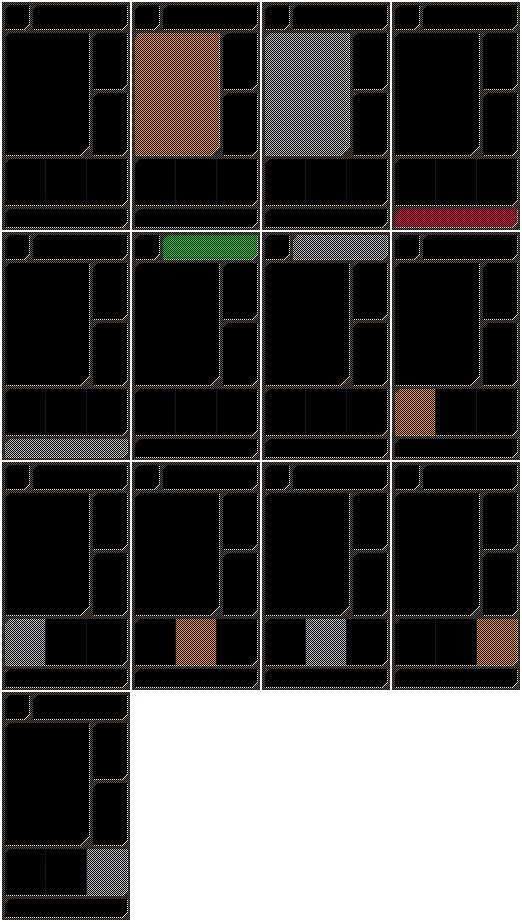
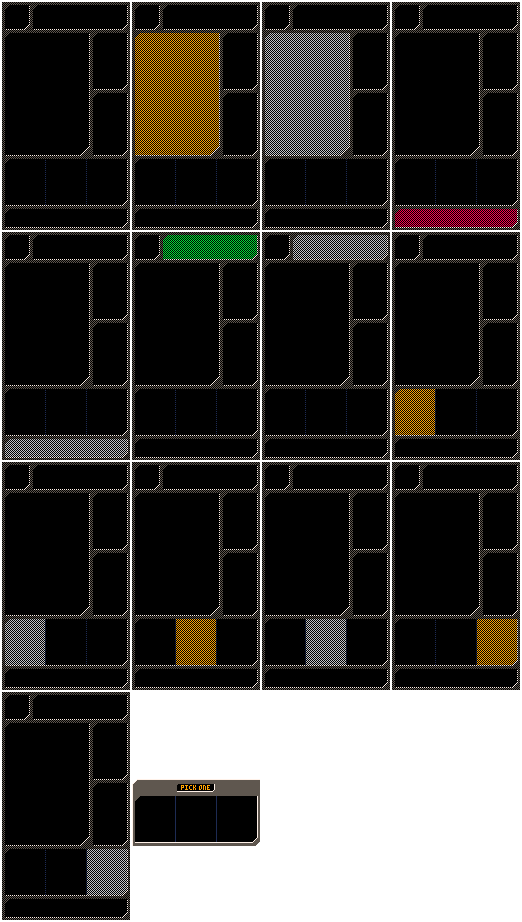
Add booster pack logic

Changed region(s): [[0.2452, 0.82, 0.5211, 0.9414]]

diff --git a/lib/src/game/engine/GameRulesEngine.cpp b/lib/src/game/engine/GameRulesEngine.cpp
@@ -7,6 +7,14 @@
 
 void GameRulesEngine::operator()(const CardTakenGameEvent& e)
 {
+    scene.stats.turnsTaken++;
+
+    if (scene.deck.front().special == CardSpecial::BoosterPack)
+    {
+        scene.boosterChoice = SceneBuilder::generateBooster();
+        return;
+    }
+
     if (scene.inventory[e.inventorySlotIdx].has_value())
     {
         const auto& inventoryCard = scene.inventory[e.inventorySlotIdx].value();
@@ -40,7 +48,6 @@ void GameRulesEngine::operator()(const CardTakenGameEvent& e)
     }
 
     popTopDeckCard();
-    scene.stats.turnsTaken++;
 }
 
 void GameRulesEngine::operator()(const CardSkipStartedGameEvent&)
@@ -81,8 +88,9 @@ void GameRulesEngine::operator()(const BeforeCardSkipGameEvent&)
 
 void GameRulesEngine::operator()(const InventoryCardTrashedGameEvent& e)
 {
-    audioEngine.playSound(SoundId::CardDestroy);
+    scene.deck.push_front(*scene.inventory[e.inventorySlotIdx]);
     scene.inventory[e.inventorySlotIdx].reset();
+    gameEventQueue.pushEvent<BeforeCardSkipGameEvent>();
 }
 
 void GameRulesEngine::operator()(const InventoryCardUsedForHealingGameEvent& e)
@@ -121,23 +129,14 @@ void GameRulesEngine::operator()(const InventoryCardUsedOnMainCardGameEvent& e)
         if (card.link == SPECIAL_CREST_DOOR
             && deckCard.image == CardImage::CrestDoorEmpty)
         {
-            scene.activeAnimation = std::make_unique<AnimationCardTransform>(
-                CardType::CrestDoorEmpty);
-
-            scene.deck.front() =
-                CardBuilder::createCard(CardType::CrestDoorWithOneCrest);
+            transformTopCard(
+                CardType::CrestDoorEmpty, CardType::CrestDoorWithOneCrest);
         }
         else
         {
             scene.activeAnimation =
                 std::make_unique<AnimationDoorOpen>(card.link);
         }
-    }
-    else if (deckCard.special & CardSpecial::Deposit)
-    {
-        scene.deck.push_front(*scene.inventory[e.inventorySlotIdx]);
-        scene.inventory[e.inventorySlotIdx].reset();
-        gameEventQueue.pushEvent<BeforeCardSkipGameEvent>();
     }
     else
     {
@@ -293,27 +292,46 @@ void GameRulesEngine::update(const dgm::Time& time)
     if (scene.activeAnimation) return;
 
     scene.usableInventorySlot = getUsableInventorySlot(scene.deck.front());
-    scene.canTakeCard = scene.deck.front().traits & CardTrait::Pickable
-                        && scene.usableInventorySlot;
+    scene.canTakeCard =
+        (scene.deck.front().traits & CardTrait::Pickable
+         && scene.usableInventorySlot)
+        || scene.deck.front().special & CardSpecial::BoosterPack;
     scene.canSafelySkipCard = !(scene.deck.front().traits & CardTrait::Enemy);
 
     if (scene.preventInteractions) return;
 
-    if (input.isTakeButtonPressed())
+    if (scene.boosterChoice)
     {
-        handleTake();
+        const auto clickPos = screenToWorld(input.getDragPosition());
+        for (auto&& [idx, body] :
+             std::ranges::views::enumerate(scene.choiceBodies))
+        {
+            if (dgm::Collision::basic(body, clickPos))
+            {
+                transformTopCard(
+                    CardType::Crate, scene.boosterChoice.value()[idx]);
+                scene.boosterChoice.reset();
+            }
+        }
     }
-    else if (input.isSkipButtonPressed())
+    else
     {
-        handleSkip();
-    }
-    else if (auto pos = input.getDragPosition(); pos != sf::Vector2f {})
-    {
-        handleDragStartedOrMoved(pos);
-    }
-    else if (scene.dragDrop.has_value())
-    {
-        handleDragEnded();
+        if (input.isTakeButtonPressed())
+        {
+            handleTake();
+        }
+        else if (input.isSkipButtonPressed())
+        {
+            handleSkip();
+        }
+        else if (auto pos = input.getDragPosition(); pos != sf::Vector2f {})
+        {
+            handleDragStartedOrMoved(pos);
+        }
+        else if (scene.dragDrop.has_value())
+        {
+            handleDragEnded();
+        }
     }
 }
 
@@ -499,8 +517,7 @@ bool GameRulesEngine::canCardInteractWithDeck(
     const auto deckTraits = deck.front().traits;
     return deckTraits & CardTrait::Enemy && a.traits & CardTrait::Weapon
            || deckTraits & CardTrait::KeyTarget && a.traits & CardTrait::KeyItem
-                  && deck.front().link == a.link
-           || deck.front().special & CardSpecial::Deposit;
+                  && deck.front().link == a.link;
 }
 
 sf::Vector2f GameRulesEngine::screenToWorld(const sf::Vector2f& pos)
@@ -544,4 +561,11 @@ void GameRulesEngine::popTopDeckCard()
 {
     scene.deck.pop_front();
     scene.preventInteractions = false;
+}
+
+void GameRulesEngine::transformTopCard(CardType from, CardType to)
+{
+    scene.activeAnimation = std::make_unique<AnimationCardTransform>(from);
+
+    scene.deck.front() = CardBuilder::createCard(to);
 }

diff --git a/lib/src/game/builders/SceneBuilder.cpp b/lib/src/game/builders/SceneBuilder.cpp
@@ -3,6 +3,13 @@
 #include "misc/Compatibility.hpp"
 #include <random>
 
+template<class T>
+void shuffleVec(std::vector<T>& vec)
+{
+    auto&& mt = std::mt19937 { std::random_device {}() };
+    std::ranges::shuffle(vec, mt);
+}
+
 [[nodiscard]] static std::list<Card> generateTutorialDeck()
 {
     return { CardBuilder::createCard(CardType::Zombie),
@@ -35,9 +42,8 @@
         CardBuilder::createCard(CardType::MoonCrest),
     };
 
-    auto&& mt = std::mt19937 { std::random_device {}() };
-    std::ranges::shuffle(deckPart1, mt);
-    std::ranges::shuffle(deckPart2, mt);
+    shuffleVec(deckPart1);
+    shuffleVec(deckPart2);
 
     return std::views::join(std::vector { deckPart1, deckPart2 })
            | uniranges::to<std::list>();
@@ -85,15 +91,30 @@ Scene SceneBuilder::createScene(const GameScenario scenario)
             dgm::Rect(RenderingEngine::getDeckCardOffset(), CARD_SIZE),
         .healthbarBody = dgm::Rect({ 35.f, 7.f }, { 85.f, 16.f }),
         .trashBody = dgm::Rect({ 5.f, 207.f }, { 116.f, 18.f }),
-        .inventoryBodies = { dgm::Rect(
-                                 RenderingEngine::getNthInventoryCardOffset(0),
-                                 CARD_SIZE / 3.f),
-                             dgm::Rect(
-                                 RenderingEngine::getNthInventoryCardOffset(1),
-                                 CARD_SIZE / 3.f),
-                             dgm::Rect(
-                                 RenderingEngine::getNthInventoryCardOffset(2),
-                                 CARD_SIZE / 3.f), },
+// clang-format off
+        .inventoryBodies = {
+            dgm::Rect(
+                RenderingEngine::getNthInventoryCardOffset(0),
+                CARD_SIZE / 3.f),
+            dgm::Rect(
+                RenderingEngine::getNthInventoryCardOffset(1),
+                CARD_SIZE / 3.f),
+            dgm::Rect(
+                RenderingEngine::getNthInventoryCardOffset(2),
+                CARD_SIZE / 3.f),
+        },
+        .choiceBodies = {
+            dgm::Rect(
+                RenderingEngine::getNthBoosterChoiceOffset(0),
+                CARD_SIZE / 3.f),
+            dgm::Rect(
+                RenderingEngine::getNthBoosterChoiceOffset(1),
+                CARD_SIZE / 3.f),
+            dgm::Rect(
+                RenderingEngine::getNthBoosterChoiceOffset(2),
+                CARD_SIZE / 3.f),
+        },
+// clang-format on
     };
 }
 
@@ -120,11 +141,25 @@ GameState SceneBuilder::updateScene(Scene& scene, const int completedLinkID)
             CardBuilder::createCard(CardType::Ammo),
         };
 
-        auto&& mt = std::mt19937 { std::random_device {}() };
-        std::ranges::shuffle(incoming, mt);
+        shuffleVec(incoming);
 
         scene.deck.insert(scene.deck.end(), incoming.begin(), incoming.end());
     }
 
     return GameState::Continue;
+}
+
+std::array<CardType, 3u> SceneBuilder::generateBooster()
+{
+    auto possibleCards = std::vector {
+        CardType::Ammo,    CardType::Ammo,     CardType::RedHerb,
+        CardType::RedHerb, CardType::FirstAid, CardType::GreenHerb,
+    };
+
+    shuffleVec(possibleCards);
+
+    auto result = std::array<CardType, 3u> {};
+    for (unsigned idx = 0; idx < result.size(); ++idx)
+        result[idx] = possibleCards[idx];
+    return result;
 }

diff --git a/lib/src/game/engine/RenderingEngine.cpp b/lib/src/game/engine/RenderingEngine.cpp
@@ -118,6 +118,8 @@ void RenderingEngine::renderWorld(dgm::Window& window)
                 : getNthInventoryCardOffset(idx),
             1.f / 3.f);
     }
+
+    renderBoosterChoice(window);
 }
 
 void RenderingEngine::renderBackground(dgm::Window& window)
@@ -296,6 +298,27 @@ void RenderingEngine::renderTopDeckCard(dgm::Window& window)
     else
     {
         renderCard(window, scene.deck.front(), deckOffset);
+    }
+}
+
+void RenderingEngine::renderBoosterChoice(dgm::Window& window)
+{
+    if (!scene.boosterChoice) return;
+
+    sprite.setTextureRect(
+        atlas.getClip(playbgrLocation)
+            .getFrame(std::to_underlying(BackgroundType::PickOne)));
+    sprite.setPosition({ 0.f, 0.f });
+    window.draw(sprite);
+
+    for (auto&& [idx, cardType] :
+         std::ranges::views::enumerate(scene.boosterChoice.value()))
+    {
+        renderCard(
+            window,
+            CardBuilder::createCard(cardType),
+            getNthBoosterChoiceOffset(idx),
+            1.f / 3.f);
     }
 }
 

diff --git a/lib/include/game/engine/RenderingEngine.hpp b/lib/include/game/engine/RenderingEngine.hpp
@@ -35,6 +35,12 @@ public:
         return sf::Vector2f { 8.f + idx * 43.5f, 161.f };
     }
 
+    [[nodiscard]] static sf::Vector2f
+    getNthBoosterChoiceOffset(size_t idx) noexcept
+    {
+        return sf::Vector2f { 8.f + idx * 43.5f, 109.f };
+    }
+
     [[nodiscard]] static sf::Vector2f getTrashIconOffset() noexcept
     {
         return sf::Vector2f { 54.f, 204.f };
@@ -88,6 +94,8 @@ private:
         const sf::Vector2f& scale);
 
     void renderTopDeckCard(dgm::Window& window);
+
+    void renderBoosterChoice(dgm::Window& window);
 
     BackgroundType getAppropriateBackgroundType() const;
 

diff --git a/lib/include/game/definitions/Scene.hpp b/lib/include/game/definitions/Scene.hpp
@@ -32,11 +32,13 @@ struct [[nodiscard]] Scene final
     int hearts = MAX_HEARTS;
     std::unique_ptr<AnimationInterface> activeAnimation = nullptr;
     std::optional<DragDrop> dragDrop;
+    std::optional<std::array<CardType, 3u>> boosterChoice = std::nullopt;
 
     dgm::Rect mainCardBody;
     dgm::Rect healthbarBody;
     dgm::Rect trashBody;
     std::array<dgm::Rect, 3u> inventoryBodies;
+    std::array<dgm::Rect, 3u> choiceBodies;
 
     // These are precomputed in each update()
     // and are used both by game and rendering logic.

diff --git a/lib/src/game/animations/AnimationTrashMainCard.cpp b/lib/src/game/animations/AnimationTrashMainCard.cpp
@@ -10,7 +10,7 @@ void AnimationTrashMainCard::render(
 {
     const auto scale = std::lerp(1.f, 1.f / 10.f, getPercFactor());
     const auto animationOffset =
-        (RenderingEngine::getTrashIconOffset() - baseOffset)
+        (sf::Vector2f { baseOffset.x, -100.f } - baseOffset)
         * Easing::easeInOut(getPercFactor());
     renderCard(
         scene.deck.front(),

diff --git a/lib/src/game/animations/AnimationCardTransform.cpp b/lib/src/game/animations/AnimationCardTransform.cpp
@@ -18,7 +18,7 @@ void AnimationCardTransform::render(
         * (1.f - easedF);
 
     renderCard(
-        getPercFactor() <= 0.f ? preTransformCard : scene.deck.front(),
+        getPercFactor() <= 0.5f ? preTransformCard : scene.deck.front(),
         Position(baseOffset + animationOffset),
         Scale({ easedF, 1.f }));
 };

diff --git a/lib/src/game/builders/CardBuilder.cpp b/lib/src/game/builders/CardBuilder.cpp
@@ -233,7 +233,7 @@ const std::map<CardType, Card> CARD_DEFS = {
     // Misc
     { CardType::Crate,
       Card { .image = CardImage::Crate,
-             .special = CardSpecial::Deposit,
+             .special = CardSpecial::BoosterPack,
              .quantity = 0,
              .power = 0,
              .name = "crate",

diff --git a/lib/include/game/builders/SceneBuilder.hpp b/lib/include/game/builders/SceneBuilder.hpp
@@ -15,4 +15,6 @@ public:
     static Scene createScene(const GameScenario scenario);
 
     static GameState updateScene(Scene& scene, const int completedLinkID);
+
+    static std::array<CardType, 3u> generateBooster();
 };

diff --git a/lib/include/game/enums/CardSpecial.hpp b/lib/include/game/enums/CardSpecial.hpp
@@ -9,7 +9,7 @@ enum class [[nodiscard]] CardSpecial
     Blind = 16,
     SpawnCrimsonHead = 32,
     Combines = 64,
-    Deposit = 128,
+    BoosterPack = 128,
 };
 
 constexpr const int SPECIAL_HERBS = 1;

diff --git a/lib/include/game/engine/GameRulesEngine.hpp b/lib/include/game/engine/GameRulesEngine.hpp
@@ -93,6 +93,8 @@ private:
 
     void popTopDeckCard();
 
+    void transformTopCard(CardType from, CardType to);
+
 private:
     EventQueue<GameEvent>& gameEventQueue;
     AudioEngine& audioEngine;

diff --git a/lib/include/game/enums/BackgroundType.hpp b/lib/include/game/enums/BackgroundType.hpp
@@ -14,5 +14,6 @@ enum class [[nodiscard]] BackgroundType
     Inventory2,
     Inventory2Greyed,
     Inventory3,
-    Inventory3Greyed
+    Inventory3Greyed,
+    PickOne,
 };
